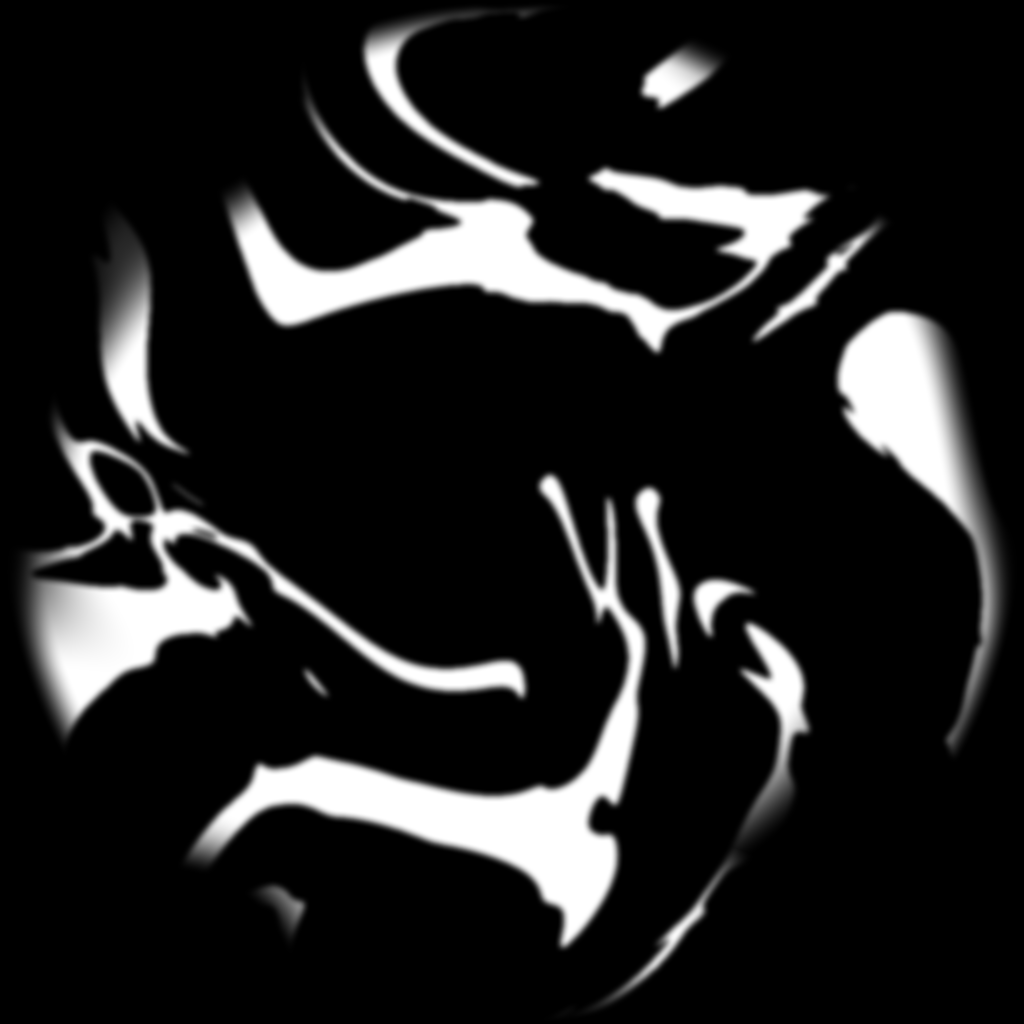
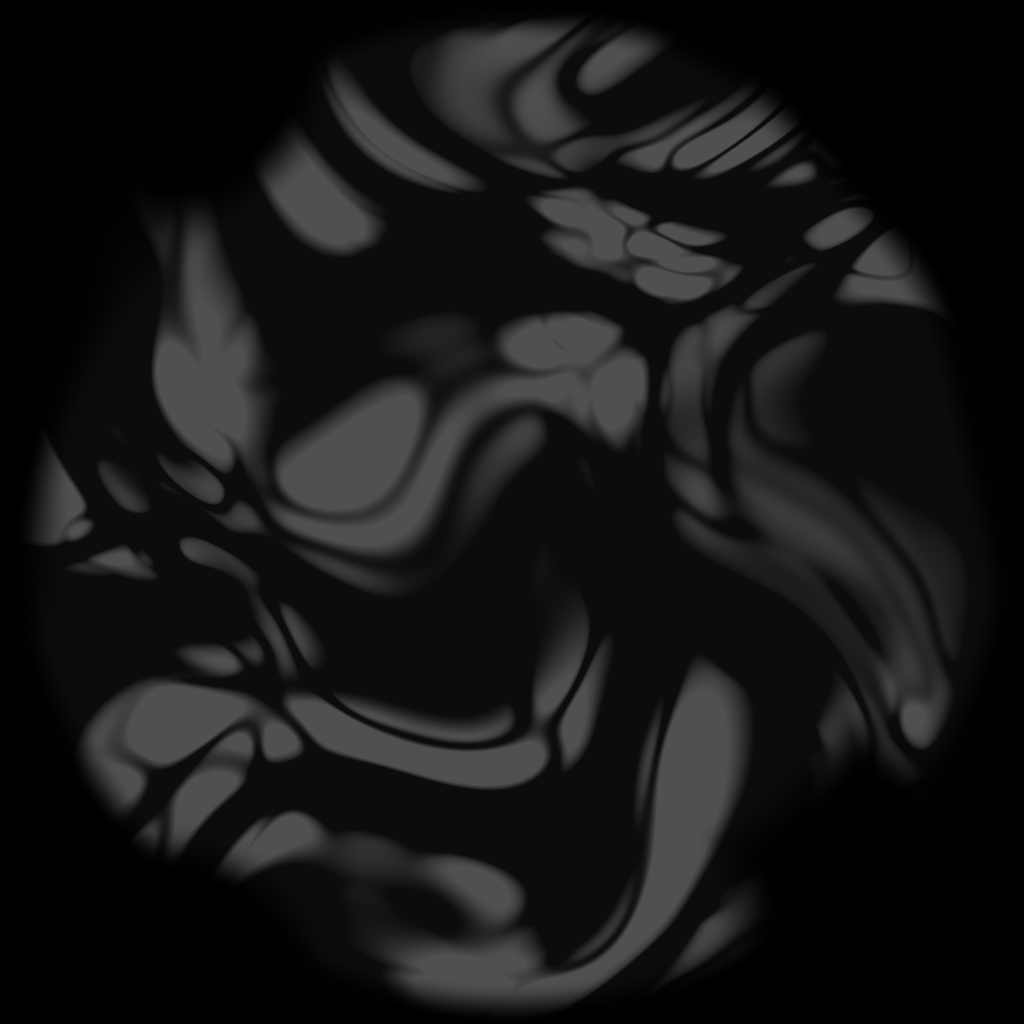
Agate and cloud: tonal masks on the full-scatter train
They were the collection's worst splotchers - coverage cuts on a wide
shallow train, where the stamp count wandered and the union filled
unevenly. Both are Gaussian fields, so docs §6's rule says the overlap
budget that buys back scatter is free for them: the average of
independent windows of a Gaussian field is the same field, and the phase
mush that would ruin a faceted texture costs a billowy one nothing. But
only a tonal mask can spend it - a union of binary sets fills rather
than averages - so both convert first.

  agate 55  ripple 8.9%  -> 3.0%   comb 18.0% -> 2.1%
  cloud 55  ripple 10.6% -> 2.4%   comb 23.7% -> 2.6%

with dual spacing 0.33 -> 0.07 (n=12) and scatter kept at 0.7, and the
levels now reading as damage depth like the rest of the tonal families.

Two new pieces of the value curve, both from writing the accumulation in
logs, where a tonal mask turns out to compute the GEOMETRIC MEAN of the
stamps' damage (1 - m = depth * GM(d)):

- tonal.gain restores the log-contrast a deep average costs, stretching
  ln d about its own mean rather than raising d to a power - the naive
  form scales spread and mean together and measurably lightens the mark
  instead of sharpening it (agate texture 4.8% -> 2.9% at naive gain 2,
  against 6.5% at mean-preserving gain 3);
- tonal.floor bounds ln d from below, because a geometric mean is dragged
  to zero by any one near-zero sample: a single stamp landing its field
[…]

diff --git a/docs/fractal-texture-math.md b/docs/fractal-texture-math.md
@@ -489,11 +489,36 @@ phase argument again, now in the tonal domain, and it sets the rule:
 One caveat on spending that budget: it is only available to a *tonal* mask.
 A coverage cut accumulates binary sets, and a union of sets does not
 average — it fills — so deeper overlap destroys a print rather than
-smoothing it (§4). The coverage-cut members of the shipped collection are
-the collection's worst splotchers for exactly this reason (Agate 55:
-`ripple` 8.9%, `comb p-p` 18%; Cloud 55: 10.6% and 23.7%, against 1.2–2.8%
-and 1.3–9.2% for the tonal five); the route open to them is conversion to a
-tonal mask first, then the overlap.
+smoothing it (§4). Agate and Cloud were built as coverage cuts on a wide
+shallow train and were the collection's worst splotchers for exactly this
+reason (Agate 55: `ripple` 8.9%, `comb p-p` 18%; Cloud 55: 10.6% and 23.7%,
+against 1.2–2.8% and 1.3–9.2% for the tonal five). Converting them to tonal
+masks first, then spending the overlap, is what the rule prescribes and what
+they now ship as: scatter 0.7 at `n̄` 12, `ripple` 1.8–3.5%, `comb p-p`
+1.1–4.2%.
+
+**What a tonal mask actually accumulates is a geometric mean.** Putting the
+over-composite in logs, with `v = 1 − (depth·d)^(1/n̄)` per stamp:
+
+```
+ln(1 − m) = Σ ln(1 − vᵢ) = ln depth + (1/n̄)·Σ ln dᵢ    ⇒   1 − m = depth·GM(d)
+```
+
+Two consequences, both of which have knobs in `tools/fractal-tip.mjs`:
+
+* The log-contrast of `n̄` near-independent samples falls as `1/√n̄` — this
+  *is* the `texture %` column of the table above. Restore it with
+  `tonal.gain`, which stretches `ln d` about its own mean
+  (`d ← G·(d/G)^gain`). Stretching about `G` is the point: a bare `d^gain`
+  scales the spread and the mean together and only lightens the mark —
+  measured, it *lost* contrast (Agate 55, `texture %`: 4.8 → 2.9 at a naive
+  gain of 2, versus 6.5 at a mean-preserving gain of 3).
+* A geometric mean is dragged to zero by any single near-zero sample, so one
+  stamp landing its field minimum sets `m → 1` and punches a full-ink speck
+  through the whole stack — visible as black dots on an otherwise smooth
+  deep-train mark. `tonal.floor` bounds `ln d` from below and they vanish.
+  The deeper the train, the more stamps get the chance, so a floor is
+  effectively mandatory past `n̄ ≈ 6`.
 
 One approximation remains, checked by the stroke-window comparison rather
 than assumed: overlapping stamps sample the same bitmap under mirror
